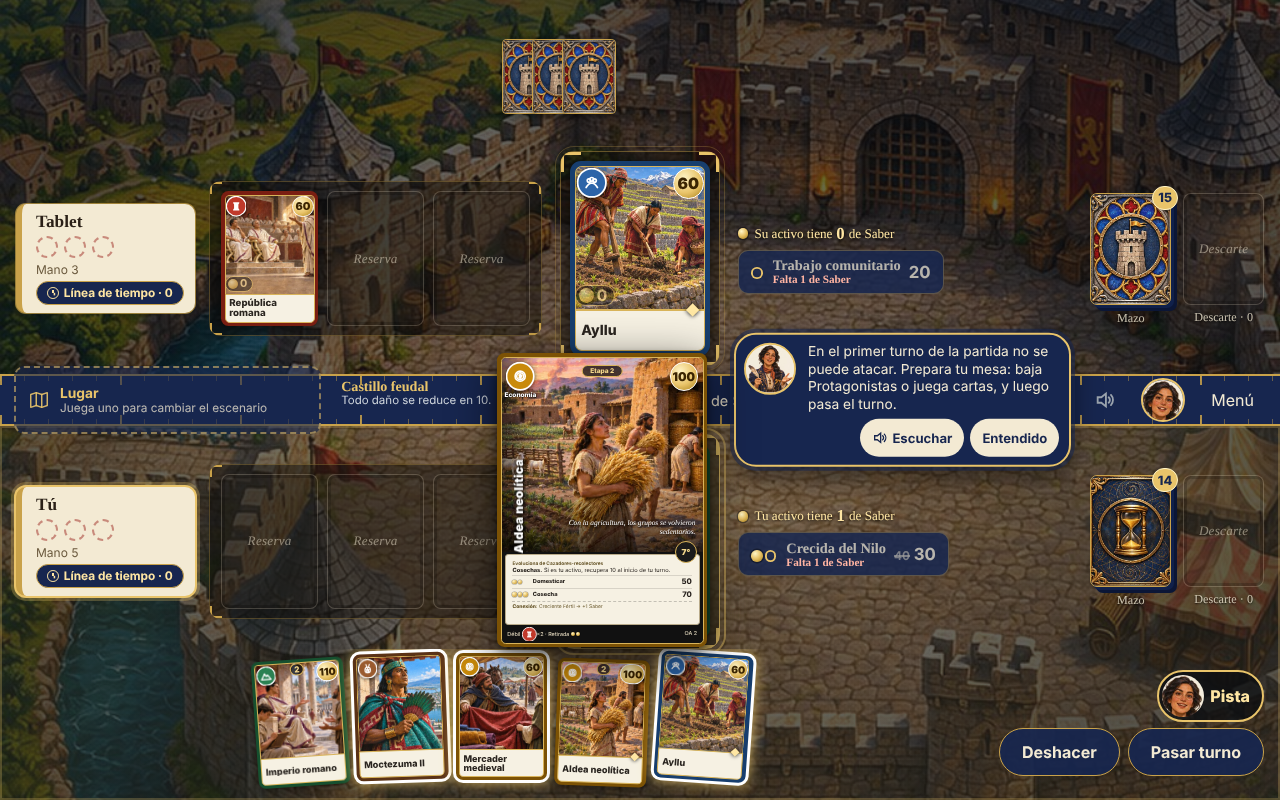
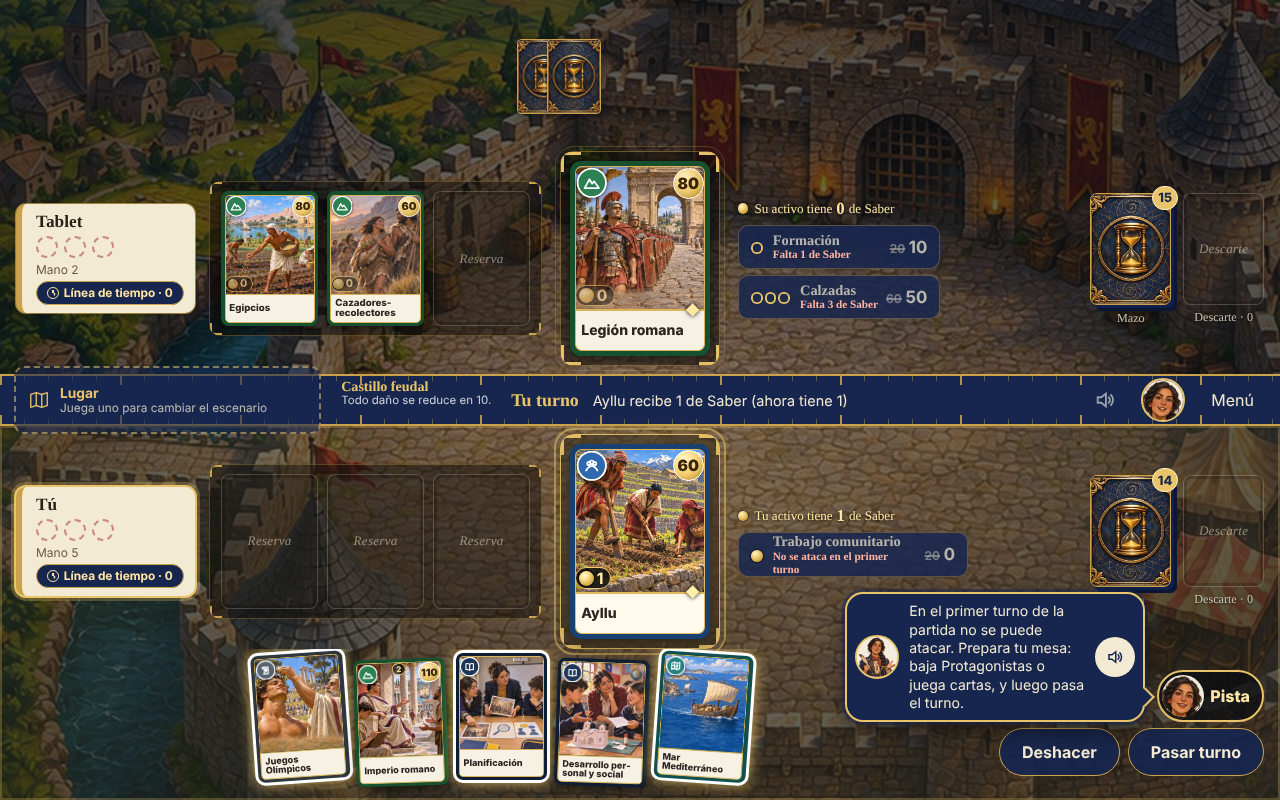
La Cronista habla en burbujas que apuntan y no tapan
Reemplaza el globo central: la burbuja va junto a lo que explica, con una
colita, sin tapar activos, Lugar ni «Pasar turno»; se cierra con un toque o
sola (6 s sin voz). Espera a que termine la escena de cada jugada. Con La
Cronista encendida, las pistas fijas pasan a burbujas; el cartel de cada
jugada queda más compacto.

Claude-Session: https://claude.ai/code/session_01ComD2599uJSF8ok9LYXvic

diff --git a/js/ui/mesa.js b/js/ui/mesa.js
@@ -18,6 +18,7 @@ import { FUERZAS, coleccion } from '../colecciones.js';
 import { hacerArrastrable, ultimaSoltada } from './arrastre.js';
 import { liviano } from '../rendimiento.js';
 import { disposicionDeMesa } from './disposicion.js';
+import { colocarBurbuja } from './burbuja.js';
 import { volar, impacto, deshacerEnArena, relojSobre, granoHacia, motasQueSuben, estallido, arenaQueCae } from './efectos.js';
 import { arenaDelTiempo } from './viaje.js';
 import { planDeEscena, escenaAtaque, escenaInvocacion, estiloDeGolpe } from './director.js';
@@ -684,15 +685,15 @@ export async function montarMesa(contenedor, opciones) {
         b.disabled = !listo;
         b.onclick = () => jugar({ tipo: 'listo' });
         controles.appendChild(b);
-        if (!listo) controles.appendChild(h('div', 'pista', 'Toca un Protagonista de tu mano'));
-        else if (!yo.reserva.length) controles.appendChild(h('div', 'pista suave', 'Consejo: pon Protagonistas en la reserva. Si tu activo cae y no tienes reserva, pierdes.'));
+        if (!listo && !config.cronista) controles.appendChild(h('div', 'pista', 'Toca un Protagonista de tu mano'));
+        else if (!yo.reserva.length && !config.cronista) controles.appendChild(h('div', 'pista suave', 'Consejo: pon Protagonistas en la reserva. Si tu activo cae y no tienes reserva, pierdes.'));
       } else if (estado.fase === 'turno') {
         const b = h('button', 'boton-secundario boton-pasar', 'Pasar turno');
         b.onclick = () => jugar({ tipo: 'pasar' });
         botonera.appendChild(b);
         controles.appendChild(botonera);
       } else if (estado.fase === 'promover') {
-        controles.appendChild(h('div', 'pista', 'Toca un Protagonista de tu reserva'));
+        if (!config.cronista) controles.appendChild(h('div', 'pista', 'Toca un Protagonista de tu reserva'));
       }
     }
     fila.appendChild(controles);
@@ -747,7 +748,9 @@ export async function montarMesa(contenedor, opciones) {
     clearTimeout(temporizadorGlobo);
     globo = { j, ...dicho, auto };
     voz(globo.audio || globo.clave);
-    if (auto) temporizadorGlobo = setTimeout(() => { if (globo && globo.auto) { globo = null; dibujarGlobo(); } }, 11000);
+    // Se cierra sola: con voz grabada, cuando termina la frase (~11 s); sin voz, a los 6 s.
+    const conVoz = !!rutaCronista(globo.audio || globo.clave) && sonidoActivo();
+    if (auto) temporizadorGlobo = setTimeout(() => { if (globo && globo.auto) { globo = null; dibujarGlobo(); } }, conVoz ? 11000 : 6000);
     dibujarGlobo();
   }
 
@@ -794,44 +797,50 @@ export async function montarMesa(contenedor, opciones) {
   }
 
   let bannerHasta = 0, globoDiferido = null;
+  // Zonas que una burbuja nunca tapa: los activos, el Lugar y los botones para seguir jugando.
+  const ZONAS_PROHIBIDAS = ['.zona-activo', '.lugar-en-juego', '.boton-pasar', '.controles .boton-principal'];
   function dibujarGlobo() {
-    raiz.querySelectorAll('.globo-cronista').forEach(g => g.remove());
-    // Mientras se ve el cartel «Tu turno», el globo espera: así no se pisan.
-    const espera = bannerHasta - performance.now();
+    raiz.querySelectorAll('.burbuja-cronista').forEach(g => g.remove());
+    // Mientras se ve el cartel «Tu turno» o la escena de una jugada, la burbuja espera: así no se pisan.
+    const espera = Math.max(bannerHasta - performance.now(), raiz.classList.contains('en-escena') ? 400 : 0);
     clearTimeout(globoDiferido);
     if (globo && espera > 0) { globoDiferido = setTimeout(() => { if (vivo) dibujarGlobo(); }, espera + 60); return; }
     raiz.querySelectorAll('.sugerida').forEach(g => g.classList.remove('sugerida'));
     if (!globo || (!config.cronista && !globo.tutorial)) return;
-    const g = h('div', `globo-cronista lado-globo-${globo.j}${girado(globo.j) ? ' girado' : ''}${globo.tutorial ? ' entrenador' : ''}`);
+    const gir = girado(globo.j);
+    const g = h('div', `burbuja-cronista lado-globo-${globo.j}${gir ? ' girado' : ''}${globo.tutorial ? ' entrenador' : ''}`);
     const cara = ['explica', 'pista', 'celebra', 'atenta'].includes(globo.expresion) ? globo.expresion : 'explica';
     // globo.texto viene de guia.js (nombres ya escapados con esc) o del paso a paso del tutorial (texto fijo).
-    g.innerHTML = '<img class="retrato" src="img/cronista/' + cara + '.jpg" alt="La Cronista"><div class="dice"><b class="quien">La Cronista</b><p>' + globo.texto + '</p></div>';
-    const dice = g.querySelector('.dice');
-    const acciones = h('div', 'acciones-globo');
-    acciones.appendChild(botonEscuchar(() => globo ? globo.texto.replace(/<[^>]+>/g, '') : '', 'boton-mini', () => globo && rutaCronista(globo.audio || globo.clave)));
-    if (!globo.tutorial) {
-      const ok = h('button', 'boton-mini', 'Entendido');
-      ok.onclick = ev => { ev.stopPropagation(); globo = null; dibujarGlobo(); };
-      acciones.appendChild(ok);
-    }
-    dice.appendChild(acciones);
+    g.innerHTML = '<img class="retrato" src="img/cronista/' + cara + '.jpg" alt="La Cronista"><p>' + globo.texto + '</p><i class="colita" aria-hidden="true"></i>';
+    const escuchar = botonEscuchar(() => globo ? globo.texto.replace(/<[^>]+>/g, '') : '', 'boton-icono', () => globo && rutaCronista(globo.audio || globo.clave));
+    escuchar.setAttribute('aria-label', 'Escuchar a La Cronista');
+    g.insertBefore(escuchar, g.querySelector('.colita'));
+    g.setAttribute('role', 'status');
+    // Un toque la cierra (en el tutorial vuelve en el paso siguiente).
+    g.onclick = () => { clearTimeout(temporizadorGlobo); if (globo && !globo.tutorial) globo = null; g.remove(); };
+    g.style.visibility = 'hidden';
     raiz.appendChild(g);
-    acoplarGlobo(g);
-    if (globo.jugada && estado.turno === globo.j) objetivoDe(globo.jugada).forEach(el => el.classList.add('sugerida'));
+    const objetivos = globo.jugada && estado.turno === globo.j ? objetivoDe(globo.jugada) : [];
+    ubicarBurbuja(g, objetivos[0] || raiz.querySelector(`.lado-${globo.j} .boton-cronista`), gir);
+    g.style.visibility = '';
+    objetivos.forEach(el => el.classList.add('sugerida'));
   }
 
-  // Si hay espacio, el globo se acopla a la barra a la derecha del activo: así no tapa el tablero,
-  // el Lugar, el turno ni los mensajes. Si no cabe (pantalla angosta o mitad girada), queda centrado.
-  function acoplarGlobo(g) {
-    if (g.classList.contains('girado')) return;
-    const barra = raiz.querySelector('.centro'), son = raiz.querySelector('.centro .boton-sonido');
-    const activo = raiz.querySelector(`.lado-${globo.j} .zona-activo`);
-    if (!barra || !son || !activo) return;
-    const izq = activo.getBoundingClientRect().right + 14, der = son.getBoundingClientRect().left - 12;
-    if (der - izq < 280) return;
-    const b = barra.getBoundingClientRect();
-    g.classList.add('acoplado');
-    g.style.left = `${izq}px`; g.style.width = `${der - izq}px`; g.style.top = `${b.top + b.height / 2}px`;
+  // Pone la burbuja junto a lo que señala, sin tapar las zonas prohibidas, con la colita apuntando.
+  function ubicarBurbuja(g, objetivo, gir) {
+    const rect = el => { const r = el.getBoundingClientRect(); return { x: r.left, y: r.top, w: r.width, h: r.height }; };
+    const prohibidas = [...raiz.querySelectorAll(ZONAS_PROHIBIDAS.join(','))].map(rect).filter(r => r.w && r.h);
+    const mano = raiz.querySelector(`.lado-${globo.j} .mano`);
+    const tamano = { w: g.offsetWidth, h: g.offsetHeight };
+    const p = colocarBurbuja({ objetivo: objetivo ? rect(objetivo) : null, tamano, pantalla: { w: innerWidth, h: innerHeight }, prohibidas, respaldo: mano ? rect(mano) : null });
+    g.style.left = `${p.x}px`; g.style.top = `${p.y}px`;
+    // En la mitad girada la burbuja rota 180°: la colita se dibuja en el punto opuesto para que, ya girada, apunte bien.
+    const opuesto = { arriba: 'abajo', abajo: 'arriba', izq: 'der', der: 'izq', respaldo: 'abajo' };
+    const ladoColita = p.lado === 'respaldo' ? 'arriba' : p.lado;   // respaldo: la burbuja queda sobre la mano
+    let cx = p.colita.x - p.x, cy = p.colita.y - p.y, lado = ladoColita;
+    if (gir) { cx = tamano.w - cx; cy = tamano.h - cy; lado = opuesto[ladoColita]; }
+    g.dataset.colita = lado;
+    g.style.setProperty('--cx', `${cx}px`); g.style.setProperty('--cy', `${cy}px`);
   }
 
   function botonCronista(j) {

diff --git a/css/estilos.css b/css/estilos.css
@@ -510,20 +510,23 @@ button:disabled { opacity: .35; cursor: default; }
 .boton-guia.encendida { border-color: #E9C46A; opacity: 1; filter: none; }
 .boton-guia img { width: 100%; height: 100%; object-fit: cover; }
 
-.globo-cronista { position: fixed; z-index: 30; left: 50%; top: 50%; transform: translate(-50%, -50%); width: min(94vw, 860px);
-  display: flex; align-items: center; gap: 12px; padding: 6px 14px 6px 6px; border-radius: 40px; background: #17264F; color: #F3EAD3;
-  border: 2px solid #E9C46A; box-shadow: 0 0 0 4px rgba(23,38,79,.55), 0 10px 28px rgba(0,0,0,.55); pointer-events: none; animation: globo-entra .3s ease-out; }
-.globo-cronista button { pointer-events: auto; }
-.globo-cronista.girado { transform: translate(-50%, -50%) rotate(180deg); }
-.globo-cronista .retrato { width: 64px; height: 64px; border-radius: 50%; object-fit: cover; object-position: 50% 8%; border: 2px solid #E9C46A; background: #F6F1E3; flex: none; }
-.globo-cronista .dice { flex: 1; min-width: 0; display: flex; align-items: center; gap: 12px; }
-.globo-cronista .dice p { margin: 0; flex: 1; line-height: 1.3; font-size: .95rem; }
-.globo-cronista .dice p b { color: #FFE6A3; }
-.globo-cronista .quien { display: none; }
-.acciones-globo { display: flex; gap: 6px; flex: none; }
-.boton-mini { min-height: 38px; padding: 0 12px; border-radius: 999px; background: #F3EAD3; color: #17264F; font-weight: 700; font-size: .82rem; display: inline-flex; align-items: center; gap: 4px; }
-.boton-mini svg { width: 16px; height: 16px; }
-.globo-cronista.entrenador { background: #17264F; padding: 6px 14px 6px 6px; border-radius: 40px; box-shadow: 0 0 0 4px rgba(23,38,79,.55), 0 10px 28px rgba(0,0,0,.55); }
+/* Burbuja de La Cronista: junto a lo que explica, con una colita que apunta (js/ui/burbuja.js decide dónde). */
+.burbuja-cronista { position: fixed; z-index: 30; left: 0; top: 0; width: 300px; max-width: 80vw; display: flex; align-items: center; gap: 10px;
+  padding: 8px 8px 8px 8px; border-radius: 18px; background: #17264F; color: #F3EAD3; border: 2px solid #E9C46A;
+  box-shadow: 0 0 0 3px rgba(23,38,79,.5), 0 8px 22px rgba(0,0,0,.5); cursor: pointer; animation: globo-entra .25s ease-out; }
+.burbuja-cronista.girado { transform: rotate(180deg); }
+.burbuja-cronista .retrato { width: 44px; height: 44px; border-radius: 50%; object-fit: cover; object-position: 50% 8%; border: 2px solid #E9C46A; background: #F6F1E3; flex: none; }
+.burbuja-cronista p { margin: 0; flex: 1; min-width: 0; line-height: 1.3; font-size: .88rem; }
+.burbuja-cronista p b { color: #FFE6A3; }
+.boton-icono { flex: none; width: 40px; height: 40px; border-radius: 50%; display: grid; place-items: center; padding: 0; background: #F3EAD3; color: #17264F; }
+.boton-icono span { position: absolute; width: 1px; height: 1px; overflow: hidden; clip: rect(0 0 0 0); }
+.boton-icono svg { width: 18px; height: 18px; }
+.burbuja-cronista .colita { position: absolute; width: 14px; height: 14px; background: #17264F; border: 2px solid #E9C46A; transform: rotate(45deg); pointer-events: none; }
+.burbuja-cronista[data-colita="abajo"] .colita { left: calc(var(--cx) - 8px); top: -9px; border-right: 0; border-bottom: 0; }
+.burbuja-cronista[data-colita="arriba"] .colita { left: calc(var(--cx) - 8px); bottom: -9px; border-left: 0; border-top: 0; }
+.burbuja-cronista[data-colita="der"] .colita { top: calc(var(--cy) - 8px); left: -9px; border-right: 0; border-top: 0; }
+.burbuja-cronista[data-colita="izq"] .colita { top: calc(var(--cy) - 8px); right: -9px; border-left: 0; border-bottom: 0; }
+@media (max-height: 520px) { .burbuja-cronista { width: 270px; padding: 6px; } .burbuja-cronista .retrato { width: 36px; height: 36px; } .burbuja-cronista p { font-size: .8rem; } }
 @keyframes globo-entra { from { opacity: 0; } to { opacity: 1; } }
 
 .sugerida { animation: sugerida 1.1s ease-in-out infinite; position: relative; z-index: 5; }
@@ -532,8 +535,8 @@ button:disabled { opacity: .35; cursor: default; }
 .boton-accion .x2 { font-style: normal; font-size: .7rem; background: #E76F51; color: #fff; border-radius: 6px; padding: 1px 5px; margin-left: 4px; vertical-align: middle; }
 .boton-accion.con-ventaja:not([disabled]) { box-shadow: 0 0 0 2px #E76F51; }
 .boton-deshacer { min-height: 40px; }
-@media (prefers-reduced-motion: reduce) { .sugerida, .globo-cronista { animation: none; } .sugerida { box-shadow: 0 0 0 4px #7FD1FF; } }
-@media (max-width: 820px), (max-height: 640px) { .globo-cronista .retrato { width: 52px; height: 52px; } .globo-cronista .dice p { font-size: .84rem; } .globo-cronista .dice { gap: 8px; } .boton-mini { min-height: 34px; padding: 0 10px; } }
+@media (prefers-reduced-motion: reduce) { .sugerida, .burbuja-cronista { animation: none; } .sugerida { box-shadow: 0 0 0 4px #7FD1FF; } }
+@media (max-width: 820px), (max-height: 640px) { .boton-mini { min-height: 34px; padding: 0 10px; } }
 
 /* ---------- Mesa: el gabinete del historiador ----------
    Cada espacio para cartas es un marco de vitrina con esquineros de bronce; la barra central
@@ -701,11 +704,6 @@ button:disabled { opacity: .35; cursor: default; }
 }
 
 /* Globo de La Cronista acoplado a la barra, a la derecha del activo (lo calcula acoplarGlobo) */
-.globo-cronista.acoplado { transform: translateY(-50%); border-radius: 22px; align-items: flex-start; padding: 8px 10px 8px 8px; }
-.globo-cronista.acoplado .retrato { width: 52px; height: 52px; }
-.globo-cronista.acoplado .dice { flex-direction: column; align-items: stretch; gap: 6px; }
-.globo-cronista.acoplado .dice p { font-size: .86rem; line-height: 1.28; }
-.globo-cronista.acoplado .acciones-globo { align-self: flex-end; }
 
 /* Con mouse: las cartas que se pueden arrastrar lo muestran, y la carta de la mano crece al pasar el cursor */
 @media (hover: hover) and (pointer: fine) {
@@ -723,8 +721,6 @@ button:disabled { opacity: .35; cursor: default; }
 /* La regla del tablero usa dos líneas en vez de cortarse */
 .tablero-en-juego span { white-space: normal; display: -webkit-box; -webkit-line-clamp: 2; -webkit-box-orient: vertical; line-height: 1.15; }
 @media (max-height: 640px) {
-  .globo-cronista.acoplado .retrato { width: 42px; height: 42px; }
-  .globo-cronista.acoplado .dice p { font-size: .78rem; }
 }
 
 /* Escenario pintado para la mesa: nítido (la ilustración de carta ampliada sí se desenfoca) */
@@ -785,11 +781,11 @@ button:disabled { opacity: .35; cursor: default; }
 .escena-invocacion.girado { transform: rotate(180deg); }
 .escena-invocacion .invocada { filter: drop-shadow(0 0 22px rgba(233,196,106,.75)) drop-shadow(0 1rem 1.6rem rgba(0,0,0,.6)); }
 .escena-invocacion .invocada .carta-normal { --w: min(250px, 30vh); }
-.cartel-invocacion { display: flex; flex-direction: column; align-items: center; gap: 2px; max-width: min(86vw, 28rem); padding: .55rem 1.2rem .7rem; text-align: center;
+.cartel-invocacion { display: flex; flex-direction: column; align-items: center; gap: 1px; max-width: 86vw; max-width: min(86vw, 22rem); padding: .4rem 1rem .5rem; text-align: center;
   background: var(--perg, #F3EAD3); color: #2a2017; border: 2px solid var(--bronce, #C9A24A); border-radius: .6rem;
   box-shadow: 0 0 0 4px rgba(23,38,79,.85), 0 .5rem 1.4rem rgba(0,0,0,.55); animation: cartel-invocacion .45s .2s cubic-bezier(.2,.9,.3,1.2) both; }
 .cartel-invocacion small { font-size: .72rem; font-weight: 700; color: #7a5a1c; }
-.cartel-invocacion b { font-family: var(--serif, Georgia, serif); font-size: 1.35rem; line-height: 1.1; }
+.cartel-invocacion b { font-family: var(--serif, Georgia, serif); font-size: 1.15rem; line-height: 1.1; }
 .cartel-invocacion span { font-size: .88rem; color: #4a3b26; }
 @keyframes cartel-invocacion { from { opacity: 0; transform: translateY(14px) scale(.9); } to { opacity: 1; transform: none; } }
 
@@ -924,8 +920,6 @@ button:disabled { opacity: .35; cursor: default; }
   .nombre-lugar i, .placa-lugar.hueco-lugar span { -webkit-line-clamp: 1; font-size: .64rem; }
   .placa-lugar.hueco-lugar span { display: none; }
   .banner-turno { font-size: 1.15rem; padding: 8px 22px; }
-  .globo-cronista { max-width: 62vw; }
-  .globo-cronista .dice p { font-size: .74rem; line-height: 1.25; }
 }
 
 .controles .botonera { display: flex; gap: 8px; justify-content: flex-end; flex-wrap: wrap; }

diff --git a/sw.js b/sw.js
@@ -1,7 +1,7 @@
 // Service worker de Cronocartas: guarda la app en la tablet para jugar sin internet.
 // Al publicar una mejora, sube VERSION y agrega aquí los archivos nuevos
 // (la prueba tests/sw.test.js avisa si falta alguno).
-const VERSION = 'cc-v68';
+const VERSION = 'cc-v70';
 const ARCHIVOS = [
   "./",
   "audio/ambientes/CC-5-U1-007.ogg",
@@ -544,7 +544,7 @@ const HUELLAS = {
   "audio/sfx/viaje.ogg": "aab7115984b2",
   "audio/sfx/victoria.ogg": "a4a5c41a13af",
   "audio/tema/inicio.ogg": "939b0d467795",
-  "css/estilos.css": "c60a641288ba",
+  "css/estilos.css": "4c7885b96be0",
   "data/ambientes.json": "963d06be0a1d",
   "data/arte.json": "305fc8be9797",
   "data/aula.json": "9c4641e855c6",
@@ -836,7 +836,7 @@ const HUELLAS = {
   "js/ui/editor.js": "efdd01cbbe7b",
   "js/ui/efectos.js": "061784a3eba9",
   "js/ui/guia.js": "c9e972efcd9f",
-  "js/ui/mesa.js": "6332ba150b86",
+  "js/ui/mesa.js": "03777d11772b",
   "js/ui/sonido.js": "fe2c462d22fa",
   "js/ui/tiempo.js": "bc9280b1562f",
   "js/ui/torneo.js": "306ece57a0cc",

diff --git a/tests/burbuja.test.js b/tests/burbuja.test.js
@@ -56,3 +56,15 @@ test('la colita apunta al objetivo', () => {
   assert.ok(r.colita.x >= r.x + 16 && r.colita.x <= r.x + 244);
   assert.equal(r.colita.x, Math.min(Math.max(440, r.x + 16), r.x + 244));
 });
+
+// La mesa usa la burbuja en vez del globo central de antes.
+const mesa = readFileSync('js/ui/mesa.js', 'utf8');
+test('la mesa coloca las burbujas con colocarBurbuja', () => {
+  assert.match(mesa, /import \{ colocarBurbuja \} from '\.\/burbuja\.js';/);
+});
+test('ya no existe el globo acoplado a la barra central', () => {
+  assert.doesNotMatch(mesa, /function acoplarGlobo/);
+});
+test('La Cronista dibuja una burbuja-cronista', () => {
+  assert.match(mesa, /['`]burbuja-cronista/);
+});
